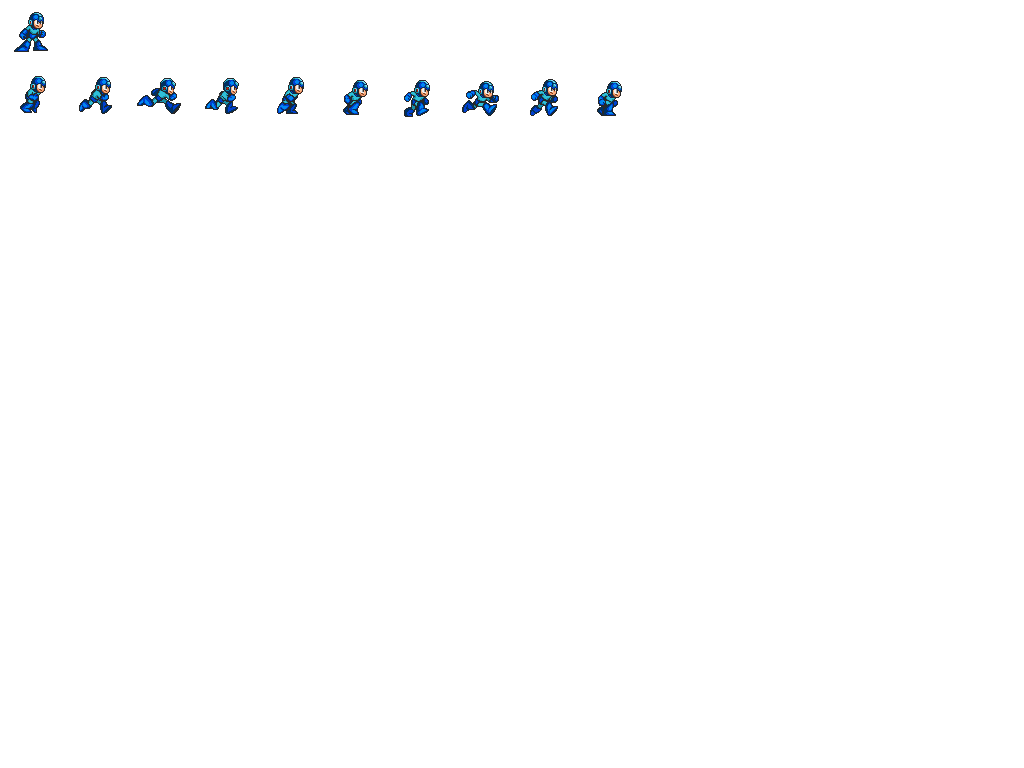
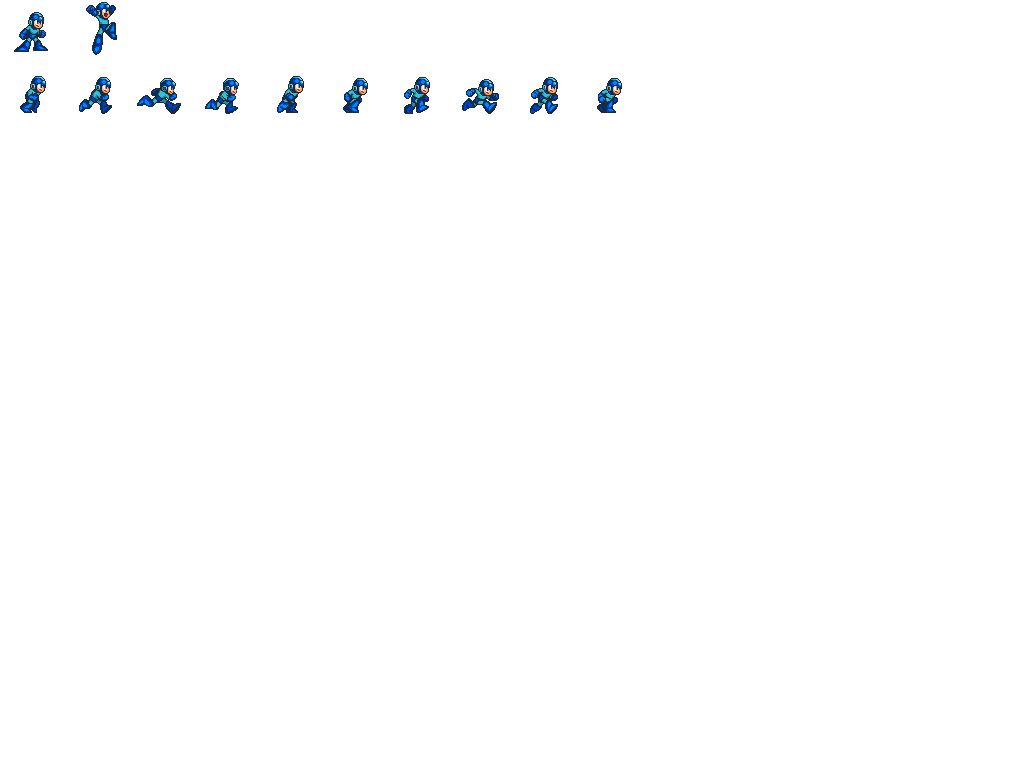
added fall animation

Changed region(s): [[0.25, 0.0938, 0.625, 0.1562], [0.0625, 0.0, 0.125, 0.0625]]

diff --git a/src/states/Base.java b/src/states/Base.java
@@ -1,51 +1,97 @@
 package states;
 
+import java.awt.image.BufferedImage;
+import java.io.IOException;
 import java.util.LinkedList;
+
+import javax.imageio.ImageIO;
 
 import org.newdawn.slick.GameContainer;
 import org.newdawn.slick.Graphics;
 import org.newdawn.slick.Input;
 import org.newdawn.slick.SlickException;
+import org.newdawn.slick.SpriteSheet;
 import org.newdawn.slick.state.BasicGameState;
 import org.newdawn.slick.state.StateBasedGame;
 
-import entities.Player;
 import entities.Entity;
+import entities.Player;
+import entities.inanimate.Inanimate;
 
 public class Base extends BasicGameState{
+	
+	SpriteSheet terrain;
+	
+	BufferedImage terrainMap;
 	
 	private int state;
 	
 	protected float x;
 	protected float y;
 	
-	float speed = 0.2f;
+	private String map;
+	
+	float speed = 0.3f;
 	
 	LinkedList <Entity> entityList;
 	
-	public Base(int state){
+	public Base(int state, String map){
 		super();
+		x = -(0 << 6);
+		y = -(0 << 6);
 		this.state = state;
+		this.map = map;
 	}
 	
 	@Override
 	public void init(GameContainer gc, StateBasedGame sbg) throws SlickException {
+		terrain = new SpriteSheet("Terrain.png",64,64);
+		
 		entityList = new LinkedList <Entity>();
+		
+		loadTerrain();
 	}
 
 	@Override
 	public void render(GameContainer gc, StateBasedGame sbg, Graphics g) throws SlickException {
+		drawEntity(g);
 		Player.player.render(x, y);
 		Player.player.render(g);
+		g.drawString(Player.player.animationNumber() + " ", 500, 400);
+		g.drawString(x + " " + y, 500, 0);
+		
+		
 	}
 
 	@Override
 	public void update(GameContainer gc, StateBasedGame sbg, int delta) throws SlickException {
-Input input = gc.getInput();
+		Input input = gc.getInput();
 		
 		float change = delta * speed;
+
+		boolean tempFall = false;
+		for(Entity z: entityList){
+			tempFall = tempFall | Player.player.gravity(z);
+		}
+		Player.player.setFalling(!tempFall);
+
+		if(Player.player.getFalling()){
+			for(int i = 0 ; i < 7 ; i++){
+				boolean done = false;
+				for(Entity z: entityList){
+					if(Player.player.gravity(z)){
+						done = true;
+						break;
+					}
+				}
+				if(done) break;
+				y--;
+				for(Entity z: entityList) z.update(x, y);
+			}
+		}
+		
 		float tempX = x , tempY = y;
-	
+
 		if(input.isKeyDown(Input.KEY_LEFT)){
 			Player.player.update("left");
 			x += (int)change;
@@ -59,15 +105,15 @@ Input input = gc.getInput();
 		else {
 			Player.player.update("standing");
 		}
-		
 		for(Entity z : entityList) z.update(x, y);
-		
 		for(Entity z: entityList){
 			if(z.collision(Player.player)){
 				x = tempX;
 				y = tempY;
+				break;
 			}
 		}
+		for(Entity z : entityList) z.update(x, y);
 		
 	}
 
@@ -75,6 +121,28 @@ Input input = gc.getInput();
 	public int getID() {
 		
 		return state;
+	}
+	
+	private void loadTerrain(){
+		try {
+			terrainMap = ImageIO.read(getClass().getResourceAsStream(map));
+		} catch (IOException e) {
+			e.printStackTrace();
+		}
+		for(int i = 0 ; i < terrainMap.getWidth(); i++){
+			for(int j = 0 ; j < terrainMap.getHeight(); j++){
+				if(terrainMap.getRGB(i, j) == 0xFF3a4646){
+					Inanimate rock = new Inanimate((i<<6),(j<<6),terrain.getSprite(0, 2), true);
+					entityList.add(rock);
+				}
+			}
+		}
+	}
+	private void drawEntity(Graphics g){
+		for(Entity z : entityList){
+			z.render(x, y);
+			z.render(g);
+		}
 	}
 
 }

diff --git a/src/entities/Player.java b/src/entities/Player.java
@@ -11,6 +11,8 @@ public class Player extends Entity{
 	
 	String direction;
 	Animation movingLeft, movingRight;
+	Animation standingRight, standingLeft;
+	Animation jumpingLeft, jumpingRight;
 	
 	public Player(float x, float y){		
 		super(x,y);
@@ -18,10 +20,16 @@ public class Player extends Entity{
 		y = 480/2;
 		
 		movingLeft = new Animation(); movingLeft.setAutoUpdate(true);
-		movingRight = new Animation(); movingRight.setAutoUpdate(true);	
+		movingRight = new Animation(); movingRight.setAutoUpdate(true);
+		
+		standingLeft = new Animation();
+		standingRight = new Animation();
+		
+		jumpingLeft = new Animation();
+		jumpingRight = new Animation();
 		
 		try{
-			sh = new SpriteSheet("/res/megaman.png",64, 64);
+			sh = new SpriteSheet("megaman.png",64, 64);
 		}catch(SlickException e){
 			e.printStackTrace();
 		}
@@ -35,14 +43,17 @@ public class Player extends Entity{
 		int row = 1;
 		for(int col = 0 ; col < 10 ; col++){
 			if(row == 1){
-				
-				movingRight.addFrame(sh.getSprite(col, row), 200);
-				if(col == 1){
-					movingRight.addFrame(sh.getSprite(0, row), 200);
-				}
+				movingRight.addFrame(sh.getSprite(col, row), 100);
+				movingLeft.addFrame(sh.getSprite(col, row).getFlippedCopy(true, false), 100);
 			}
 		}
-		anim = movingRight;
+		standingRight.addFrame(sh.getSprite(0, 0), 100);
+		standingLeft.addFrame(sh.getSprite(0, 0).getFlippedCopy(true, false),100);
+		
+		jumpingRight.addFrame(sh.getSprite(1, 0), 100);
+		jumpingLeft.addFrame(sh.getSprite(1, 0).getFlippedCopy(true, false),100);
+		
+		anim = standingRight;
 		direction = "right";
 	}
 	
@@ -56,7 +67,15 @@ public class Player extends Entity{
 		else if(direction.equals("right")){
 			anim = movingRight;
 			this.direction = "right";
-		}			
+		}
+		else if(direction.equals("standing")){
+			if(this.direction.equals("left")) anim = standingLeft;
+			else anim = standingRight;
+		}
+		if(falling){
+			if(this.direction.equals("left")) anim = jumpingLeft;
+			else anim = jumpingRight;
+		}
 	}
 
 	@Override
@@ -65,13 +84,20 @@ public class Player extends Entity{
 	}
 	public void render(Graphics g){
 		g.draw(hitBox);
+		g.draw(footing);
 	}
 	@Override
 	protected void setHitBox() {
-		hitBox = new Rectangle(0,0,38,80);
-		hitBox.setLocation(x+5, y);
+		hitBox = new Rectangle(0,0,32,32);
+		hitBox.setLocation(x+20, y+17);
+		
+		footing = new Rectangle(0,0,32,2);
+		footing.setLocation(x+20, y+17+31);
 	}
 	public String getDirection(){
 		return direction;
+	}
+	public int animationNumber(){
+		return anim.getFrame();
 	}
 }

diff --git a/src/entities/Entity.java b/src/entities/Entity.java
@@ -15,19 +15,24 @@ public abstract class Entity {
 	protected Image sprite;
 	
 	protected Shape hitBox;
+	protected Shape footing;
 	protected boolean collide;
+	protected boolean falling;
 	
 	protected SpriteSheet sh;
 	
 	public Entity(float x, float y){
 		this.x = x;
 		this.y = y;
+		collide = true;
+		falling = true;
 	}
 	
 	public Entity(float x, float y, boolean collide){
 		this.x = x;
 		this.y = y;
 		this.collide = collide;
+		this.falling = true;
 	}
 	
 	public Entity(float x, float y, Image sprite, boolean collide){
@@ -54,6 +59,15 @@ public abstract class Entity {
 	}
 	public void getSprite(Image sprite){
 		this.sprite = sprite;
+	}
+	public boolean gravity(Entity ob){
+		return footing.intersects(ob.getHitBox());
+	}
+	public boolean getFalling(){
+		return falling;
+	}
+	public void setFalling(boolean falling){
+		this.falling = falling;
 	}
 	public float getX(){ return x; }
 	public float getY(){ return y; }

diff --git a/src/entities/inanimate/Inanimate.java b/src/entities/inanimate/Inanimate.java
@@ -1,0 +1,35 @@
+package entities.inanimate;
+
+import org.newdawn.slick.Graphics;
+import org.newdawn.slick.Image;
+import org.newdawn.slick.geom.Rectangle;
+
+import entities.Entity;
+
+public class Inanimate extends Entity{
+
+	
+	public Inanimate(float x, float y, Image sprite, boolean collide) {
+		super(x, y, sprite,collide);
+		setHitBox();
+	}
+
+	@Override
+	public void update(float x, float y) {
+		hitBox.setLocation(this.x + x, this.y + y);
+	}
+
+	@Override
+	public void render(float x, float y) {
+		sprite.draw(this.x + x , this.y + y);		
+	}
+	public void render(Graphics g){
+		g.draw(hitBox);
+	}
+	@Override
+	protected void setHitBox() {
+		hitBox = new Rectangle(0,0,64,64);
+		hitBox.setLocation(x,y);
+	}
+	
+}

diff --git a/src/mainGame/Main.java b/src/mainGame/Main.java
@@ -35,7 +35,7 @@ public class Main extends StateBasedGame {
 	public Main(String name) throws SlickException{
 		super(name);
 		
-		this.addState(new Base(base));
+		this.addState(new Base(base, "/lv1.png"));
 
 	}
 
